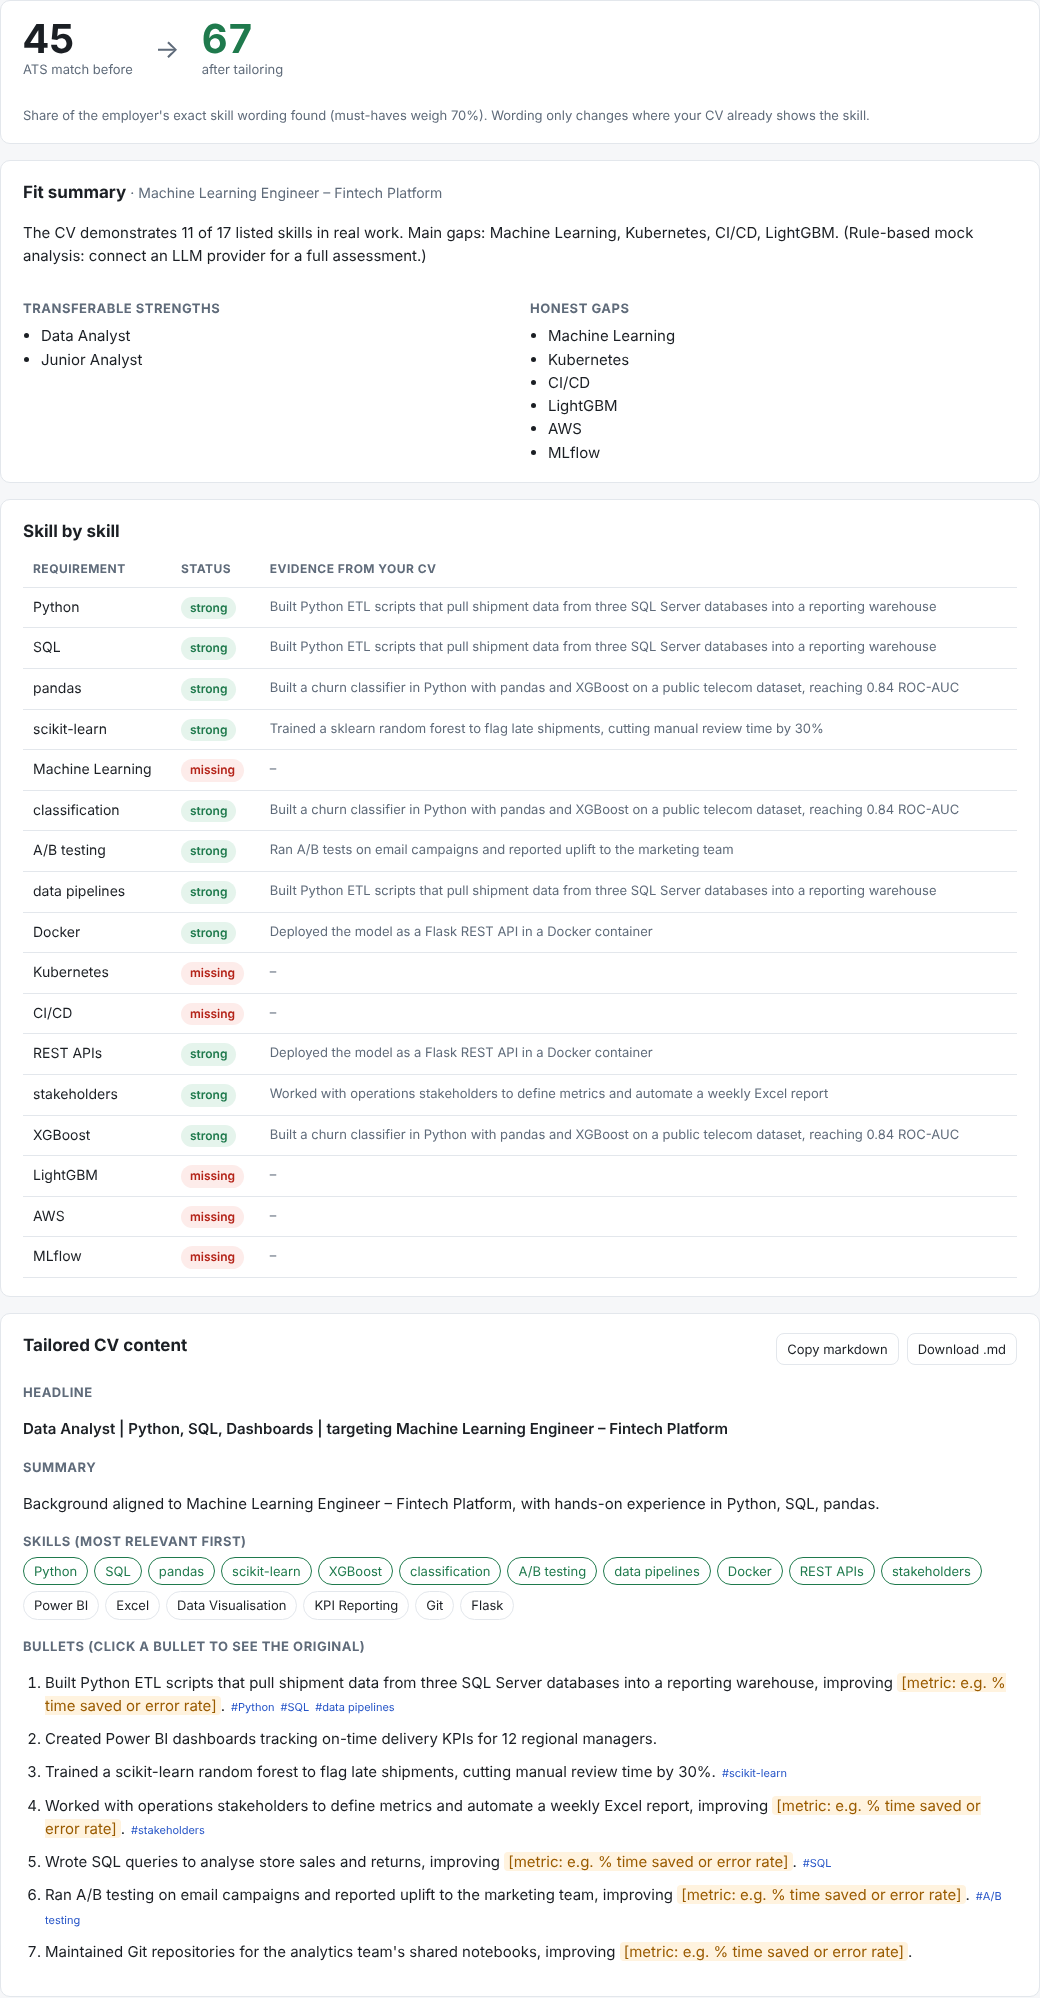
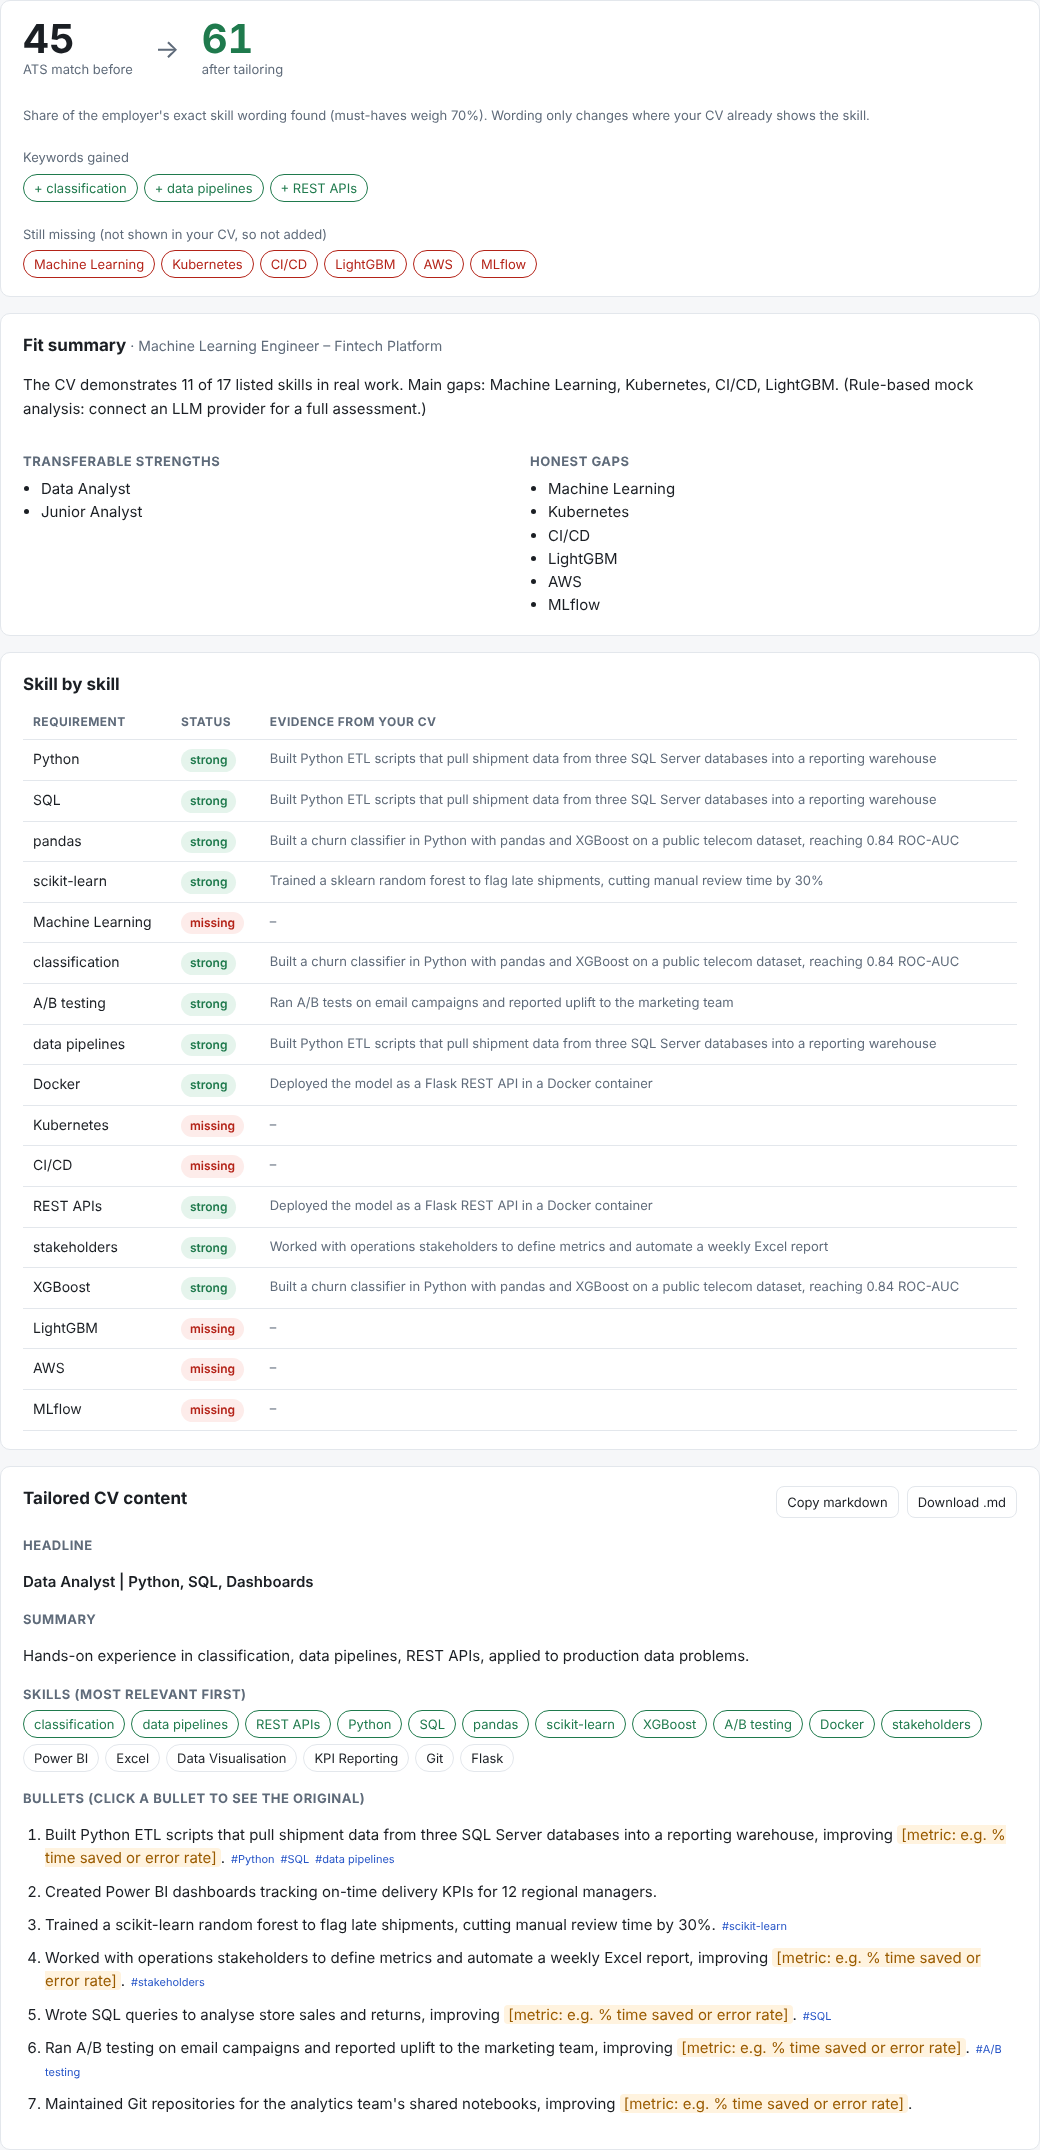
Make tailoring raise ATS match only with CV-backed keywords
- Compute missing-but-supported employer phrases in code and require the
  rewrite step to use them verbatim
- Accept employer phrasing in the skills list when the gap analysis cites
  evidence that is verified to appear in the CV; reject fabricated quotes
- Exclude the job title from the scored text so echoing it can't inflate
  the score
- Show gained and still-missing keywords in the UI
- Ask the JD parser for short ATS-style keywords

Claude-Session: https://claude.ai/code/session_01FHCsg2rxDpN4zxSbAC8gQQ

diff --git a/app/static/app.js b/app/static/app.js
@@ -64,6 +64,13 @@ $("go").onclick = async () => {
 function render(d) {
   $("before").textContent = Math.round(d.ats_before.score);
   $("after").textContent = Math.round(d.ats_after.score);
+  const hitsOf = (a) => [...a.must_have_hit, ...a.nice_to_have_hit];
+  const beforeHits = new Set(hitsOf(d.ats_before));
+  const gained = hitsOf(d.ats_after).filter((k) => !beforeHits.has(k));
+  const missing = [...d.ats_after.must_have_missing, ...d.ats_after.nice_to_have_missing];
+  $("gained").innerHTML = gained.map((k) => `<span class="chip hit">+ ${esc(k)}</span>`).join("") ||
+    "<span class='muted small'>None: your CV already used the employer's wording for every skill it supports.</span>";
+  $("missing").innerHTML = missing.map((k) => `<span class="chip miss">${esc(k)}</span>`).join("") || "<span class='muted small'>None</span>";
   $("role").textContent = `· ${d.job.title}`;
   $("fit").textContent = d.gaps.fit_summary;
   $("strengths").innerHTML = d.gaps.transferable_strengths.map((s) => `<li>${esc(s)}</li>`).join("") || "<li class='muted'>None listed</li>";

diff --git a/app/static/index.html b/app/static/index.html
@@ -55,6 +55,8 @@
       <div class="arrow">→</div>
       <div class="score after"><span class="num" id="after">–</span><span class="cap">after tailoring</span></div>
       <p class="note">Share of the employer's exact skill wording found (must-haves weigh 70%). Wording only changes where your CV already shows the skill.</p>
+      <div class="kw"><span class="cap">Keywords gained</span><div id="gained" class="chips"></div></div>
+      <div class="kw"><span class="cap">Still missing (not shown in your CV, so not added)</span><div id="missing" class="chips"></div></div>
     </div>
 
     <div class="card">

diff --git a/app/static/style.css b/app/static/style.css
@@ -76,3 +76,5 @@ td.ev { color: var(--muted); font-size: 13px; }
 footer { text-align: center; color: var(--muted); font-size: 13px; padding: 20px; }
 footer a { color: var(--accent); }
 @media (max-width: 760px) { .inputs, .two { grid-template-columns: 1fr; } textarea { min-height: 200px; } }
+.kw { flex-basis: 100%; display: flex; flex-direction: column; gap: 6px; }
+.chip.miss { border-color: var(--bad); color: var(--bad); }

diff --git a/app/pipeline/checks.py b/app/pipeline/checks.py
@@ -4,7 +4,7 @@ from __future__ import annotations
 
 import re
 
-from app.models import ATSScore, FactFlag, JobRequirements, TailoredCV
+from app.models import ATSScore, FactFlag, GapAnalysis, JobRequirements, TailoredCV
 from app.pipeline.skills import find_skills, literal_hit, supported
 
 MUST_WEIGHT = 0.7
@@ -32,6 +32,33 @@ def ats_score(text: str, job: JobRequirements) -> ATSScore:
     )
 
 
+def _squash(text: str) -> str:
+    return re.sub(r"[^a-z0-9%+#/.]+", " ", text.lower()).strip()
+
+
+def evidence_backed(cv_text: str, gaps: GapAnalysis) -> set[str]:
+    """
+    Skills the gap analysis rated strong/partial AND whose quoted evidence really appears in the CV.
+    The quote is verified in code, so the LLM can't justify a skill with a made-up citation.
+    """
+    cv = _squash(cv_text)
+    backed = set()
+    for item in gaps.skills:
+        if item.status == "missing":
+            continue
+        quote = _squash(item.evidence or "")
+        if (len(quote) >= 12 and quote in cv) or supported(cv_text, item.skill):
+            backed.add(item.skill.lower())
+    return backed
+
+
+def keywords_to_use(cv_text: str, job: JobRequirements, backed: set[str]) -> list[str]:
+    """Employer phrases missing word-for-word from the CV, but which the CV demonstrably supports."""
+    before = ats_score(cv_text, job)
+    missing = before.must_have_missing + before.nice_to_have_missing
+    return [k for k in missing if k.lower() in backed or supported(cv_text, k)]
+
+
 _PLACEHOLDER = re.compile(r"\[[^\]]*\]")
 # 40%, 3.5x, $1.2M, 500+, 12k, 2019 ... ; ignores digits glued to letters like "S3", "GPT-4", "v2"
 _NUMBER = re.compile(r"(?<![A-Za-z0-9\-])[$£€]?\d[\d,]*(?:\.\d+)?\s?(?:%|x|k|K|m|M|bn|\+)?(?![A-Za-z0-9])")
@@ -46,11 +73,14 @@ def _numbers(text: str) -> set[str]:
     return out
 
 
-def fact_guard(cv_text: str, job: JobRequirements, tailored: TailoredCV) -> tuple[TailoredCV, list[FactFlag]]:
+def fact_guard(cv_text: str, job: JobRequirements, tailored: TailoredCV,
+               backed: set[str] | None = None) -> tuple[TailoredCV, list[FactFlag]]:
     """
     Flag rewritten bullets that contain numbers or skills not present in the original CV, and
     remove unsupported skills from the skills list outright (that list goes straight onto the CV).
+    `backed` holds employer phrases whose support was verified by `evidence_backed`.
     """
+    backed = backed or set()
     cv_numbers = _numbers(cv_text)
     flags: list[FactFlag] = []
 
@@ -67,16 +97,21 @@ def fact_guard(cv_text: str, job: JobRequirements, tailored: TailoredCV) -> tupl
 
     kept, dropped = [], []
     for s in tailored.skills_ordered:
-        (kept if supported(cv_text, s) else dropped).append(s)
+        (kept if supported(cv_text, s) or s.lower() in backed else dropped).append(s)
     for s in dropped:
         flags.append(FactFlag(bullet_index=-1, rewritten=s, issue="new_skill",
                               detail=f"Removed '{s}' from the skills list: not shown in your CV"))
     return tailored.model_copy(update={"skills_ordered": kept}), flags
 
 
+def tailored_text_for_scoring(md: str, job: JobRequirements) -> str:
+    """Remove the job title so that echoing it ("Machine Learning Engineer") can't count as a skill match."""
+    return re.sub(re.escape(job.title), " ", md, flags=re.I) if job.title else md
+
+
 def render_markdown(cv_name: str | None, tailored: TailoredCV, job: JobRequirements) -> str:
     lines = [f"# {cv_name or 'Tailored CV'}", f"**{tailored.headline}**", "", tailored.summary, "",
-             "## Skills", ", ".join(tailored.skills_ordered), "", f"## Tailored bullets for: {job.title}"]
+             "## Skills", ", ".join(tailored.skills_ordered), "", "## Experience highlights"]
     for b in tailored.bullets:
         lines.append(f"- {b.rewritten}")
     return "\n".join(lines) + "\n"

diff --git a/app/pipeline/prompts.py b/app/pipeline/prompts.py
@@ -4,7 +4,10 @@ PARSE_JD_SYSTEM = """You are a technical recruiter. Extract the structured requi
 Rules:
 - Copy skill names using the employer's exact wording (ATS systems match literally).
 - must_have_skills: things stated as required. nice_to_have_skills: "preferred", "bonus", "nice to have".
-- Keep each skill short (1-4 words). No duplicates. Do not invent requirements that are not in the text."""
+- Keep each skill a short keyword of 1-3 words, as a recruiter would type it into an ATS search
+  (e.g. "Python", "CI/CD", "classification models"). Split combined items: "Docker and CI/CD" -> "Docker", "CI/CD".
+  No parentheses, no qualifiers like "strong" or "experience with".
+- No duplicates. Do not invent requirements that are not in the text."""
 
 PARSE_CV_SYSTEM = """You are parsing a CV into structured data.
 Rules:
@@ -29,6 +32,9 @@ Hard rules (a downstream fact-checker will flag violations):
   for a skill the CV already shows under another name (e.g. "sklearn" -> "scikit-learn").
 - Rewrite every bullet from the most relevant 2 roles/projects (max 12 bullets). Keep each under 35 words.
 - skills_ordered: the CV's own skills, most job-relevant first, using the employer's wording where equivalent.
+- <keywords_to_use> lists the employer's exact phrases that the CV supports but doesn't use word for word.
+  Use EVERY one of them verbatim at least once: in skills_ordered, the summary, or the bullet it best fits.
+  Applicant tracking systems match literally, so this is the main way tailoring raises the match.
 - headline and summary: truthful, specific to this job, no clichés ("passionate", "results-driven")."""
 
 
@@ -44,5 +50,7 @@ def gaps_user(job_json: str, cv_json: str, cv_text: str) -> str:
     return f"<job_json>\n{job_json}\n</job_json>\n<cv_json>\n{cv_json}\n</cv_json>\n<cv>\n{cv_text}\n</cv>"
 
 
-def rewrite_user(job_json: str, cv_json: str, gaps_json: str) -> str:
-    return f"<job_json>\n{job_json}\n</job_json>\n<cv_json>\n{cv_json}\n</cv_json>\n<gaps_json>\n{gaps_json}\n</gaps_json>"
+def rewrite_user(job_json: str, cv_json: str, gaps_json: str, keywords: list[str]) -> str:
+    kw = "\n".join(keywords) or "(none)"
+    return (f"<job_json>\n{job_json}\n</job_json>\n<cv_json>\n{cv_json}\n</cv_json>\n"
+            f"<gaps_json>\n{gaps_json}\n</gaps_json>\n<keywords_to_use>\n{kw}\n</keywords_to_use>")

diff --git a/app/pipeline/tailor.py b/app/pipeline/tailor.py
@@ -9,7 +9,14 @@ from concurrent.futures import ThreadPoolExecutor
 from app.llm.base import LLMProvider
 from app.models import AnalyzeResponse, CVProfile, GapAnalysis, JobRequirements, TailoredCV
 from app.pipeline import prompts as P
-from app.pipeline.checks import ats_score, fact_guard, render_markdown
+from app.pipeline.checks import (
+    ats_score,
+    evidence_backed,
+    fact_guard,
+    keywords_to_use,
+    render_markdown,
+    tailored_text_for_scoring,
+)
 
 log = logging.getLogger(__name__)
 
@@ -27,10 +34,13 @@ def run(cv_text: str, jd_text: str, llm: LLMProvider) -> AnalyzeResponse:
 
     job_json, cv_json = job.model_dump_json(), cv.model_dump_json()
     gaps = llm.complete_json(P.GAPS_SYSTEM, P.gaps_user(job_json, cv_json, cv_text), GapAnalysis, "gaps")
-    tailored = llm.complete_json(P.REWRITE_SYSTEM, P.rewrite_user(job_json, cv_json, gaps.model_dump_json()),
+    backed = evidence_backed(cv_text, gaps)
+    keywords = keywords_to_use(cv_text, job, backed)
+    log.info("asking rewrite to use %d missing-but-supported keywords", len(keywords))
+    tailored = llm.complete_json(P.REWRITE_SYSTEM, P.rewrite_user(job_json, cv_json, gaps.model_dump_json(), keywords),
                                  TailoredCV, "rewrite")
 
-    tailored, flags = fact_guard(cv_text, job, tailored)
+    tailored, flags = fact_guard(cv_text, job, tailored, backed)
     md = render_markdown(cv.name, tailored, job)
     log.info("pipeline finished in %.1fs with %d fact flags", time.perf_counter() - t0, len(flags))
 
@@ -41,7 +51,7 @@ def run(cv_text: str, jd_text: str, llm: LLMProvider) -> AnalyzeResponse:
         gaps=gaps,
         tailored=tailored,
         ats_before=ats_score(cv_text, job),
-        ats_after=ats_score(md + "\n" + cv_text, job),
+        ats_after=ats_score(tailored_text_for_scoring(md, job) + "\n" + cv_text, job),
         fact_flags=flags,
         tailored_markdown=md,
     )

diff --git a/tests/test_checks.py b/tests/test_checks.py
@@ -51,3 +51,31 @@ def test_fact_guard_flags_invented_number_and_skill():
     assert not any(f.bullet_index == 2 for f in flags)  # placeholders are fine
     assert "Kubernetes" not in cleaned.skills_ordered
     assert "scikit-learn" in cleaned.skills_ordered  # supported via the alias "sklearn"
+
+
+def test_rewrite_keywords_raise_ats_and_fake_evidence_is_rejected():
+    from app.models import GapAnalysis, SkillEvidence
+    from app.pipeline.checks import evidence_backed, keywords_to_use
+
+    cv = "Built a churn classifier in Python with pandas, reaching 0.84 ROC-AUC\nSkills: Python, pandas"
+    job = JobRequirements(title="MLE", must_have_skills=["Python", "classification models", "Kubernetes"])
+    gaps = GapAnalysis(fit_summary="x", skills=[
+        SkillEvidence(skill="classification models", status="strong", evidence="Built a churn classifier in Python"),
+        SkillEvidence(skill="Kubernetes", status="partial", evidence="Ran services on Kubernetes clusters"),  # fake quote
+    ])
+    backed = evidence_backed(cv, gaps)
+    assert "classification models" in backed
+    assert "kubernetes" not in backed  # its 'evidence' isn't in the CV
+
+    kws = keywords_to_use(cv, job, backed)
+    assert kws == ["classification models"]
+
+    tailored = TailoredCV(headline="h", summary="Python developer building classification models",
+                          skills_ordered=["Python", "classification models", "Kubernetes"])
+    cleaned, flags = fact_guard(cv, job, tailored, backed)
+    assert cleaned.skills_ordered == ["Python", "classification models"]
+    assert any("Kubernetes" in f.detail for f in flags)
+
+    before = ats_score(cv, job).score
+    after = ats_score(cleaned.summary + " " + ", ".join(cleaned.skills_ordered) + "\n" + cv, job).score
+    assert after > before

diff --git a/app/llm/mock.py b/app/llm/mock.py
@@ -148,10 +148,12 @@ class MockProvider(LLMProvider):
         # use the employer's wording for equivalent skills
         wording = {canonical(t): t for t in targets if canonical(t)}
         ordered = [wording.get(s, s) for s in relevant + others]
+        kw = [k.strip() for k in _tag(user, "keywords_to_use").splitlines() if k.strip() and k.strip() != "(none)"]
+        ordered = list(dict.fromkeys(kw + ordered))  # employer phrases first, no duplicates
         top = ", ".join(ordered[:3])
         return {
-            "headline": f"{cv.get('headline') or 'Professional'} | targeting {job['title']}",
-            "summary": f"Background aligned to {job['title']}, with hands-on experience in {top}.",
+            "headline": cv.get("headline") or "Professional",
+            "summary": f"Hands-on experience in {top}, applied to production data problems.",
             "skills_ordered": ordered,
             "bullets": bullets,
         }

diff --git a/tests/test_api.py b/tests/test_api.py
@@ -40,7 +40,7 @@ def test_analyze_end_to_end():
     assert d["fact_flags"] == []  # the mock never invents facts
     assert all("Kubernetes" not in s for s in d["tailored"]["skills_ordered"])
     assert any(b["needs_metric"] for b in d["tailored"]["bullets"])
-    assert d["tailored_markdown"].startswith("# Alex Morgan")
+    assert d["tailored_markdown"].startswith("# Alex Morgan") and "Engineer" not in d["tailored_markdown"]
 
 
 def test_analyze_rejects_short_input():

diff --git a/README.md b/README.md
@@ -42,13 +42,17 @@ flowchart LR
 | 3 | Each requirement is marked strong / partial / missing, with a quote from the CV as evidence | LLM |
 | 4 | Bullets are rewritten in X-Y-Z form. Where there's no result, a `[metric: …]` placeholder is left for you to fill instead of a made-up number | LLM |
 | ✓ | **Fact guard:** any number or skill in the output that's missing from the original CV is flagged, and unsupported skills are removed from the skills list | Python |
-| ✓ | **ATS score:** literal match of the employer's exact skill wording, must-haves weighted 70% | Python |
+| ✓ | **ATS score:** literal match of the employer's exact skill wording, must-haves weighted 70%. The job title is excluded, so echoing it can't inflate the score | Python |
 
 ### Design decisions
 
 - **Two matching modes.** ATS systems match words literally, so the score uses the employer's exact
   phrase. The fact guard is alias-aware: if your CV says "sklearn", the tool may write
   "scikit-learn", the employer's wording. It won't add Kubernetes if you've never mentioned it.
+- **Keywords are computed, not left to the model.** Between steps 3 and 4, code works out which employer
+  phrases are missing word-for-word but supported by the CV (alias match, or a gap-analysis quote that is
+  verified to really appear in the CV). The rewrite must use those verbatim. A skill "justified" by a
+  quote that isn't in the CV is rejected.
 - **Structured output with self-repair.** Every LLM step must return JSON that validates against a
   Pydantic schema. If it doesn't, the validation error is sent back to the model once to fix
   (`app/llm/base.py`).
@@ -113,7 +117,7 @@ app/
     checks.py          ATS score, fact guard, markdown rendering
     skills.py          ~100 skills with aliases; literal vs alias-aware matching
   static/              single-page UI (HTML/CSS/vanilla JS) + sample CV and JD
-tests/                 15 pytest tests: checks, LLM retry logic, API end to end
+tests/                 16 pytest tests: checks, LLM retry logic, API end to end
 ```
 
 ## Testing
